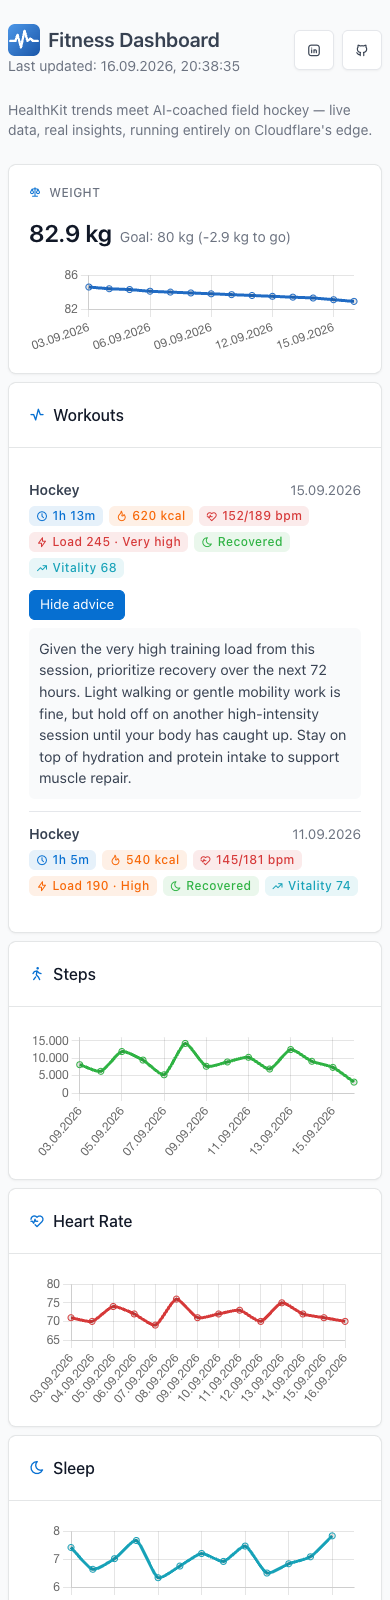
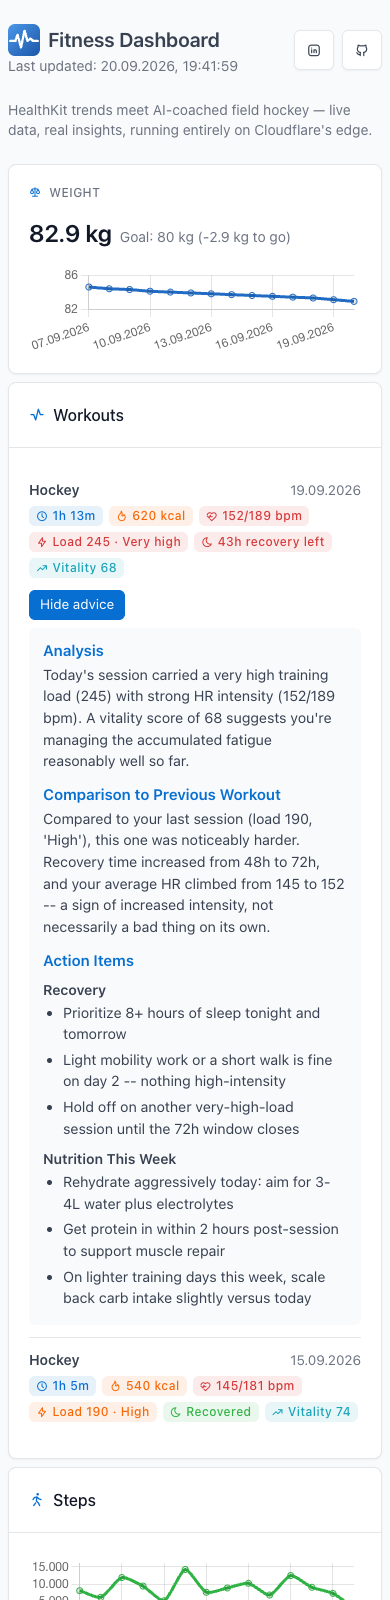
Turn workout advice into deep, structured feedback
buildPrompt now asks the model for markdown-style sections (Analysis,
Comparison to Previous Workout, Action Items > Recovery / Nutrition
This Week) instead of one paragraph-y blob, and explicitly compares
against the most recent prior workout (a new previousWorkout field on
AdviceContext, computed from data already being fetched). Nutrition
guidance stays general rather than specific meals, since no dietary
preferences are stored.

Chose markdown-with-headers over strict JSON: Workers AI doesn't
reliably honor guided/structured JSON with this model, so plain
headers that degrade gracefully to readable paragraphs are safer than
a parse step that could break the whole advice block.

dashboard.js gets a small dependency-free formatAdviceHtml() that
escapes text first (keeping XSS protection) then converts ##/###
headers, "- " bullets, and **bold** into real HTML. Also adds a title
attribute (tooltip) to every workout stat badge explaining what it
means. Regenerated README screenshots to show the new structured
advice card.

diff --git a/tests/advice.test.ts b/tests/advice.test.ts
@@ -45,7 +45,12 @@ function dailyMetricsRow(overrides: Partial<DailyMetricsRow> = {}): DailyMetrics
 
 describe('buildPrompt', () => {
   it('includes the workout sport, training load, and recovery hours', () => {
-    const context: AdviceContext = { workout: workoutRow(), recentMetrics: [], recentWorkouts: [] };
+    const context: AdviceContext = {
+      workout: workoutRow(),
+      recentMetrics: [],
+      recentWorkouts: [],
+      previousWorkout: null,
+    };
     const prompt = buildPrompt(context);
     expect(prompt).toContain('Hockey');
     expect(prompt).toContain('286');
@@ -60,6 +65,7 @@ describe('buildPrompt', () => {
         dailyMetricsRow({ date: '2026-08-16', steps: 9500, weight_kg: 83.1, resting_hr: 55 }),
       ],
       recentWorkouts: [],
+      previousWorkout: null,
     };
     const prompt = buildPrompt(context);
     expect(prompt).toContain('2026-08-16');
@@ -73,6 +79,7 @@ describe('buildPrompt', () => {
       workout: workoutRow(),
       recentMetrics: [],
       recentWorkouts: [workoutRow({ started_at: '2026-08-10T18:00:00', training_load: 150, training_load_label: 'Moderate' })],
+      previousWorkout: null,
     };
     const prompt = buildPrompt(context);
     expect(prompt).toContain('2026-08-10');
@@ -81,15 +88,93 @@ describe('buildPrompt', () => {
   });
 
   it('says so explicitly when there is no recent history', () => {
-    const context: AdviceContext = { workout: workoutRow(), recentMetrics: [], recentWorkouts: [] };
+    const context: AdviceContext = {
+      workout: workoutRow(),
+      recentMetrics: [],
+      recentWorkouts: [],
+      previousWorkout: null,
+    };
     const prompt = buildPrompt(context);
     expect(prompt).toContain('No recent daily metrics recorded.');
     expect(prompt).toContain('No other workouts in the past 14 days.');
   });
 
   it('instructs the model not to use a placeholder greeting', () => {
-    const context: AdviceContext = { workout: workoutRow(), recentMetrics: [], recentWorkouts: [] };
+    const context: AdviceContext = {
+      workout: workoutRow(),
+      recentMetrics: [],
+      recentWorkouts: [],
+      previousWorkout: null,
+    };
     const prompt = buildPrompt(context);
     expect(prompt).toContain('Hey [Athlete]');
+  });
+
+  it('refers to the sport as field hockey, not ice hockey', () => {
+    const context: AdviceContext = {
+      workout: workoutRow(),
+      recentMetrics: [],
+      recentWorkouts: [],
+      previousWorkout: null,
+    };
+    const prompt = buildPrompt(context);
+    expect(prompt).toContain('field hockey');
+  });
+
+  it('instructs the model to use structured markdown sections', () => {
+    const context: AdviceContext = {
+      workout: workoutRow(),
+      recentMetrics: [],
+      recentWorkouts: [],
+      previousWorkout: null,
+    };
+    const prompt = buildPrompt(context);
+    expect(prompt).toContain('## Analysis');
+    expect(prompt).toContain('## Comparison to Previous Workout');
+    expect(prompt).toContain('## Action Items');
+    expect(prompt).toContain('### Recovery');
+    expect(prompt).toContain('### Nutrition This Week');
+  });
+
+  it('includes the previous workout data for comparison when one exists', () => {
+    const previous = workoutRow({
+      started_at: '2026-08-10T18:00:00',
+      training_load: 150,
+      training_load_label: 'Moderate',
+      recovery_hours: 48,
+      avg_hr: 128,
+    });
+    const context: AdviceContext = {
+      workout: workoutRow(),
+      recentMetrics: [],
+      recentWorkouts: [previous],
+      previousWorkout: previous,
+    };
+    const prompt = buildPrompt(context);
+    expect(prompt).toContain('2026-08-10');
+    expect(prompt).toContain('150');
+    expect(prompt).toContain('128');
+  });
+
+  it('tells the model explicitly when there is no previous workout to compare against', () => {
+    const context: AdviceContext = {
+      workout: workoutRow(),
+      recentMetrics: [],
+      recentWorkouts: [],
+      previousWorkout: null,
+    };
+    const prompt = buildPrompt(context);
+    expect(prompt).toContain('first tracked workout');
+  });
+
+  it('instructs the model to keep nutrition guidance general, not specific meals', () => {
+    const context: AdviceContext = {
+      workout: workoutRow(),
+      recentMetrics: [],
+      recentWorkouts: [],
+      previousWorkout: null,
+    };
+    const prompt = buildPrompt(context);
+    expect(prompt.toLowerCase()).toContain('not specific meals or recipes');
   });
 });

diff --git a/public/dashboard.js b/public/dashboard.js
@@ -61,37 +61,86 @@ function formatRecoveryStatus(startedAt, recoveryHours) {
   return { text: `${hoursLeft}h recovery left`, color };
 }
 
+const STAT_TOOLTIPS = {
+  duration: 'Total time of the workout',
+  calories: 'Active calories burned during the workout',
+  hr: 'Average / max heart rate during the workout, in beats per minute',
+  load: 'Training load: a composite score of workout intensity and duration — higher means more strain on your body',
+  recovery: 'Recommended recovery time before your next high-intensity session',
+  vitality: 'Vitality score: reflects your overall fitness and readiness trend based on recent training and recovery',
+};
+
 function buildStatBadges(w) {
   const badges = [];
   if (w.duration_sec !== null) {
     badges.push(
-      `<span class="badge bg-blue-lt"><i class="ti ti-clock"></i> ${formatWorkoutDuration(w.duration_sec)}</span>`
+      `<span class="badge bg-blue-lt" title="${STAT_TOOLTIPS.duration}"><i class="ti ti-clock"></i> ${formatWorkoutDuration(w.duration_sec)}</span>`
     );
   }
   if (w.active_kcal !== null) {
-    badges.push(`<span class="badge bg-orange-lt"><i class="ti ti-flame"></i> ${w.active_kcal} kcal</span>`);
+    badges.push(
+      `<span class="badge bg-orange-lt" title="${STAT_TOOLTIPS.calories}"><i class="ti ti-flame"></i> ${w.active_kcal} kcal</span>`
+    );
   }
   if (w.avg_hr !== null) {
     const hrText = w.max_hr !== null ? `${w.avg_hr}/${w.max_hr} bpm` : `${w.avg_hr} bpm avg`;
-    badges.push(`<span class="badge bg-red-lt"><i class="ti ti-heartbeat"></i> ${hrText}</span>`);
+    badges.push(
+      `<span class="badge bg-red-lt" title="${STAT_TOOLTIPS.hr}"><i class="ti ti-heartbeat"></i> ${hrText}</span>`
+    );
   }
   if (w.training_load !== null) {
     const color = loadBadgeColor(w.training_load_label);
     const labelText = w.training_load_label ? ` &middot; ${escapeHtml(w.training_load_label)}` : '';
     badges.push(
-      `<span class="badge bg-${color}-lt"><i class="ti ti-bolt"></i> Load ${w.training_load}${labelText}</span>`
+      `<span class="badge bg-${color}-lt" title="${STAT_TOOLTIPS.load}"><i class="ti ti-bolt"></i> Load ${w.training_load}${labelText}</span>`
     );
   }
   if (w.recovery_hours !== null) {
     const status = formatRecoveryStatus(w.started_at, w.recovery_hours);
-    badges.push(`<span class="badge bg-${status.color}-lt"><i class="ti ti-moon"></i> ${status.text}</span>`);
+    badges.push(
+      `<span class="badge bg-${status.color}-lt" title="${STAT_TOOLTIPS.recovery}"><i class="ti ti-moon"></i> ${status.text}</span>`
+    );
   }
   if (w.vitality_score !== null) {
     badges.push(
-      `<span class="badge bg-cyan-lt"><i class="ti ti-trending-up"></i> Vitality ${w.vitality_score}</span>`
+      `<span class="badge bg-cyan-lt" title="${STAT_TOOLTIPS.vitality}"><i class="ti ti-trending-up"></i> Vitality ${w.vitality_score}</span>`
     );
   }
   return badges.join(' ');
+}
+
+function formatAdviceHtml(text) {
+  const escaped = escapeHtml(text);
+  const inline = (line) => line.replace(/\*\*(.+?)\*\*/g, '<strong>$1</strong>');
+
+  const html = [];
+  let listItems = [];
+  const flushList = () => {
+    if (listItems.length > 0) {
+      html.push(`<ul>${listItems.map((item) => `<li>${item}</li>`).join('')}</ul>`);
+      listItems = [];
+    }
+  };
+
+  for (const rawLine of escaped.split('\n')) {
+    const line = rawLine.trim();
+    if (line === '') {
+      flushList();
+    } else if (line.startsWith('### ')) {
+      flushList();
+      html.push(`<h5>${inline(line.slice(4))}</h5>`);
+    } else if (line.startsWith('## ')) {
+      flushList();
+      html.push(`<h4>${inline(line.slice(3))}</h4>`);
+    } else if (line.startsWith('- ')) {
+      listItems.push(inline(line.slice(2)));
+    } else {
+      flushList();
+      html.push(`<p>${inline(line)}</p>`);
+    }
+  }
+  flushList();
+  return html.join('');
 }
 
 function renderWorkouts(workouts) {
@@ -112,7 +161,7 @@ function renderWorkouts(workouts) {
       const adviceId = `workout-advice-${index}`;
       const adviceToggle = w.advice
         ? `<button class="advice-toggle" data-target="${adviceId}">View advice</button>
-           <div class="advice-text" id="${adviceId}" hidden>${escapeHtml(w.advice)}</div>`
+           <div class="advice-text" id="${adviceId}" hidden>${formatAdviceHtml(w.advice)}</div>`
         : '';
       return `
         <div class="workout-item">

diff --git a/functions/_lib/advice.ts b/functions/_lib/advice.ts
@@ -49,8 +49,15 @@ function formatRecentWorkouts(rows: WorkoutRow[]): string {
     .join('\n');
 }
 
+function formatPreviousWorkoutComparison(previousWorkout: WorkoutRow | null): string {
+  if (!previousWorkout) {
+    return 'There is no previous workout on record -- this is the first tracked workout. Say so explicitly instead of comparing.';
+  }
+  return `Previous workout for comparison:\n${formatWorkoutSummary(previousWorkout)}`;
+}
+
 export function buildPrompt(context: AdviceContext): string {
-  return `You are a sports science coach analyzing a hockey player's workout data. Give concise, practical advice based on the data below.
+  return `You are a sports science coach analyzing a field hockey player's workout data. Give deep, practical, structured feedback based on the data below.
 
 Today's workout:
 ${formatWorkoutSummary(context.workout)}
@@ -61,12 +68,25 @@ ${formatRecentMetrics(context.recentMetrics)}
 Other workouts from the last 14 days:
 ${formatRecentWorkouts(context.recentWorkouts)}
 
-Write about 150-300 words of practical advice covering:
-1. Recovery guidance based on this workout's training load and recovery time, and any accumulated fatigue visible in the recent history.
-2. Suggestions for the next training session (intensity, timing, what to focus on).
-3. General sports-nutrition guidance appropriate to this training load (not personalized to specific meals, since we don't track food intake -- general guidance like hydration, protein/carb timing is fine).
+${formatPreviousWorkoutComparison(context.previousWorkout)}
 
-Write directly to the athlete in a supportive, practical coaching tone. Do not use markdown formatting, just plain prose in paragraphs. Do not open with a greeting or a placeholder name (e.g. do not write "Hey [Athlete]") -- start directly with the advice itself.`;
+Structure your response as markdown with exactly these section headers, in this order:
+
+## Analysis
+2-3 sentences analyzing this workout's key numbers (load, HR, recovery, vitality) and what they indicate about the athlete's current state.
+
+## Comparison to Previous Workout
+Compare this workout to the previous one listed above: what improved, what got worse, and what stayed on track, referencing specific numbers. If there is no previous workout, say this is the first tracked workout instead.
+
+## Action Items
+
+### Recovery
+2-3 bullet points (using "- ") of concrete recovery actions for the coming days -- stretching, light activity, sleep, timing before the next high-intensity session -- based on this workout's training load and recovery time, and any accumulated fatigue visible in the recent history.
+
+### Nutrition This Week
+3-4 bullet points (using "- ") of general sports-nutrition guidance for the week ahead, appropriate to this training load: hydration, protein/carb timing, training-day vs rest-day calorie needs. Keep this general -- not specific meals or recipes, since we don't track food intake.
+
+Write directly to the athlete in a supportive, practical coaching tone. Do not open with a greeting or a placeholder name (e.g. do not write "Hey [Athlete]") -- start directly with the Analysis section.`;
 }
 
 export type AdviceGenerator = (context: AdviceContext, env: Env) => Promise<string>;
@@ -74,7 +94,7 @@ export type AdviceGenerator = (context: AdviceContext, env: Env) => Promise<stri
 export const generateAdvice: AdviceGenerator = async (context, env) => {
   const output = await env.AI.run(MODEL, {
     messages: [{ role: 'user', content: buildPrompt(context) }],
-    max_tokens: 700,
+    max_tokens: 1000,
   });
 
   const text = output.response;

diff --git a/tests/advice-context.test.ts b/tests/advice-context.test.ts
@@ -94,4 +94,20 @@ describe('buildAdviceContext', () => {
     const context = await buildAdviceContext(db, workout);
     expect(context.workout).toEqual(workout);
   });
+
+  it('sets previousWorkout to the most recent prior workout in the window', async () => {
+    await upsertWorkout(db, workoutRow({ started_at: '2026-08-10T18:00:00', training_load: 200 }));
+    await upsertWorkout(db, workoutRow({ started_at: '2026-08-14T18:00:00', training_load: 150 }));
+
+    const workout = workoutRow({ started_at: '2026-08-17T20:03:14', training_load: 286 });
+    await upsertWorkout(db, workout);
+    const context = await buildAdviceContext(db, workout);
+
+    expect(context.previousWorkout?.started_at).toBe('2026-08-14T18:00:00');
+  });
+
+  it('sets previousWorkout to null when there is no prior workout in the window', async () => {
+    const context = await buildAdviceContext(db, workoutRow());
+    expect(context.previousWorkout).toBeNull();
+  });
 });

diff --git a/public/styles.css b/public/styles.css
@@ -72,10 +72,44 @@
 
 .advice-text {
   margin-top: 8px;
-  padding: 10px;
+  padding: 12px 14px;
   background: var(--tblr-bg-surface-secondary, #f5f5f7);
   border-radius: var(--tblr-border-radius, 8px);
   font-size: 0.9rem;
   line-height: 1.5;
-  white-space: pre-wrap;
+}
+
+.advice-text h4,
+.advice-text h5 {
+  margin: 12px 0 4px;
+  font-size: 0.95rem;
+  font-weight: 600;
+  color: var(--tblr-primary, #206bc4);
+}
+
+.advice-text h4:first-child,
+.advice-text h5:first-child {
+  margin-top: 0;
+}
+
+.advice-text h5 {
+  font-size: 0.88rem;
+  color: var(--tblr-body-color, inherit);
+}
+
+.advice-text p {
+  margin: 0 0 8px;
+}
+
+.advice-text ul {
+  margin: 0 0 8px;
+  padding-left: 20px;
+}
+
+.advice-text li {
+  margin-bottom: 4px;
+}
+
+.advice-text > *:last-child {
+  margin-bottom: 0;
 }

diff --git a/functions/_lib/advice-context.ts b/functions/_lib/advice-context.ts
@@ -17,5 +17,11 @@ export async function buildAdviceContext(db: D1Like, workout: WorkoutRow): Promi
 
   const recentWorkouts = workoutsInWindow.filter((w) => w.started_at !== workout.started_at);
 
-  return { workout, recentMetrics, recentWorkouts };
+  const previousWorkout = recentWorkouts.reduce<WorkoutRow | null>((latest, w) => {
+    if (w.started_at >= workout.started_at) return latest;
+    if (!latest || w.started_at > latest.started_at) return w;
+    return latest;
+  }, null);
+
+  return { workout, recentMetrics, recentWorkouts, previousWorkout };
 }

diff --git a/functions/_lib/types.ts b/functions/_lib/types.ts
@@ -102,4 +102,5 @@ export interface AdviceContext {
   workout: WorkoutRow;
   recentMetrics: DailyMetricsRow[];
   recentWorkouts: WorkoutRow[];
+  previousWorkout: WorkoutRow | null;
 }
